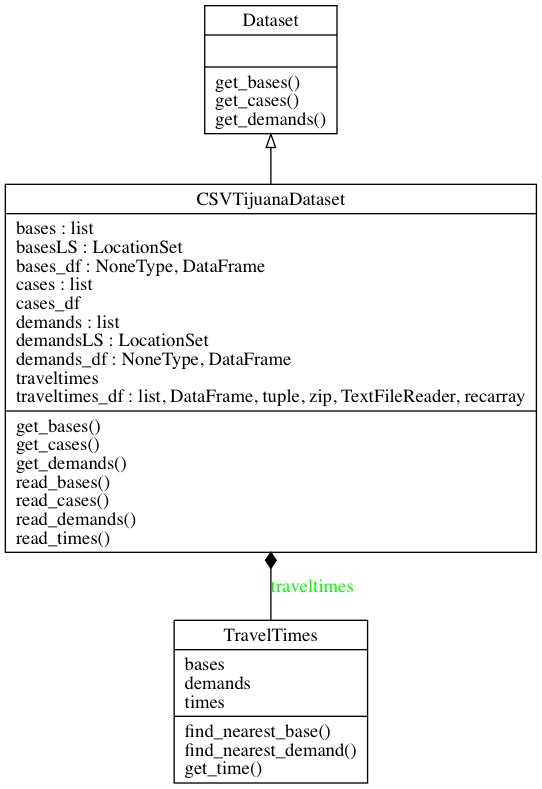
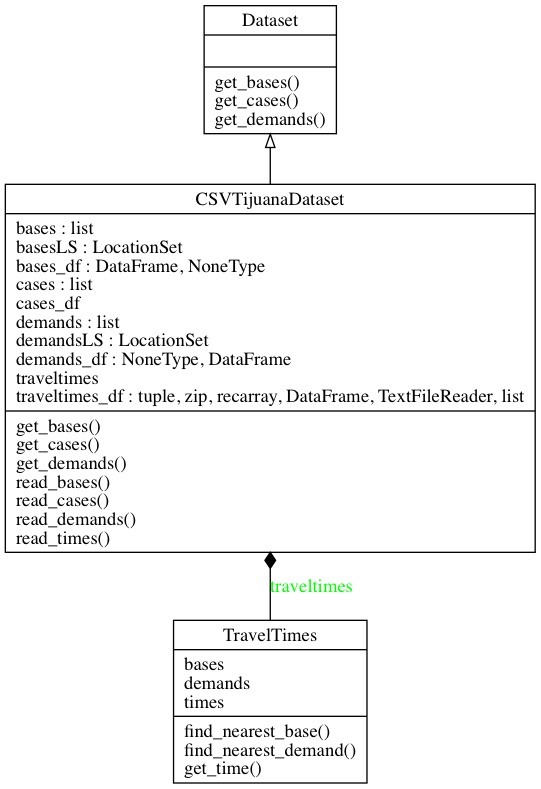
first wave of refactoring towards OOP done, sim appears to work

diff --git a/ems/models/ambulance.py b/ems/models/ambulance.py
@@ -18,13 +18,13 @@ class Ambulance:
                  deployed_time: datetime.datetime = None,
                  end_time: datetime.datetime = None):
 
-        self.id = id
-        self.base = base
-        self.unit = unit
-        self.deployed = deployed
-        self.location = location
-        self.deployed_time = deployed_time
-        self.end_time = end_time
+        self.id:int = id
+        self.base:Base = base
+        self.unit:str = unit
+        self.deployed:bool = deployed
+        self.location:Point = location
+        self.deployed_time:datetime.datetime = deployed_time
+        self.end_time:datetime.datetime = end_time
 
     def __eq__(self, other):
         """

diff --git a/ems/simulators/simulator.py b/ems/simulators/simulator.py
@@ -12,11 +12,11 @@ class Simulator:
     def __init__(self,
                  ambulances: List[Ambulance],
                  cases: List[Case],
-                 ambulance_selector: AmbulanceSelectionAlgorithm):
+                 ambulance_selector:  AmbulanceSelectionAlgorithm):
 
-        self.ambulances = ambulances
-        self.cases = cases
-        self.ambulance_selection = ambulance_selector
+        self.ambulances:List[Ambulance] = ambulances
+        self.cases:List[Case] = cases
+        self.ambulance_selection:AmbulanceSelectionAlgorithm = ambulance_selector
 
     def run(self):
         raise NotImplementedError()

diff --git a/ems/simulators/dispatcher_simulator.py b/ems/simulators/dispatcher_simulator.py
@@ -20,7 +20,7 @@ class DispatcherSimulator(Simulator):
                  ambulance_selector: AmbulanceSelectionAlgorithm):
 
         self.finished_cases = []
-        self.current_time = cases[0].datetime if len(cases) > 0 else -1
+        self.current_time:datetime.datetime = cases[0].datetime if len(cases) > 0 else -1
         self.measured_coverage = []
         super(DispatcherSimulator, self).__init__(ambulances, cases, ambulance_selector)
 

diff --git a/ems/algorithms/calculate_coverage.py b/ems/algorithms/calculate_coverage.py
@@ -18,7 +18,7 @@ class DemandsCoveredAlgorithm (CoverageAlgorithm):
     """
 
     def __init__(self, travel_times:TravelTimes):
-        self.travel_times = travel_times
+        self.travel_times:TravelTimes = travel_times
         self._recorded_coverages:List = []
 
 

diff --git a/ems/models/location_set.py b/ems/models/location_set.py
@@ -5,7 +5,7 @@ from ems.models.location    import Location
 class LocationSet:
 
     def __init__(self, locations:List[Location]):
-        self.locations = locations
+        self.locations:List[Location] = locations
         self.kd_tree = self._initialize_kd_tree()
 
 

diff --git a/ems/models/location.py b/ems/models/location.py
@@ -4,5 +4,5 @@ from geopy import Point
 class Location:
 
     def __init__(self, id: int, point: Point):
-        self.id = id
-        self.location = point
+        self.id:int = id
+        self.location:Point = point
